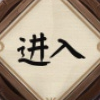
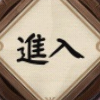
fix Weekly Secret
1.update pic to CHT
2.ocr number % 100 to ignore detect wrong.
3.add handle I_WIN for battle process.

diff --git a/tasks/Secret/script_task.py b/tasks/Secret/script_task.py
@@ -186,6 +186,11 @@ class ScriptTask(GameUi, GeneralBattle, SwitchSoul, SecretAssets):
                     logger.info(f'No find jade number, but find gold number {gold_number}')
                     return 1
                 return None
+            elif jade_num > 100:
+                # the number must under 70, 100 is ocr detect wrong.
+                # jade_num = 170  remove hundred digit 170 % 100 = 70
+                jade_num = jade_num % 100
+                logger.info(f'OCR failed, try again {jade_num}')
             elif jade_num > 70:
                 logger.warning(f'OCR failed, try again {jade_num}')
                 return None
@@ -249,15 +254,17 @@ class ScriptTask(GameUi, GeneralBattle, SwitchSoul, SecretAssets):
         self.device.stuck_record_add('BATTLE_STATUS_S')
         self.device.click_record_clear()
         # 战斗过程 随机点击和滑动 防封
-        logger.info("Start battle process")
+        logger.info("Start battle process SECRET")
         while 1:
             self.screenshot()
             if self.appear(self.I_SE_BATTLE_WIN):
                 logger.info('Win battle')
                 self.ui_click_until_disappear(self.I_SE_BATTLE_WIN, interval=2)
                 return True
-            if self.appear_then_click(self.I_WIN, interval=1):
-                continue
+            if self.appear(self.I_WIN):
+                logger.info('Win battle')
+                self.ui_click_until_disappear(self.I_WIN, interval=2)
+                return True
             if self.appear(self.I_REWARD):
                 logger.info('Win battle')
                 self.ui_click_until_disappear(self.I_REWARD)
